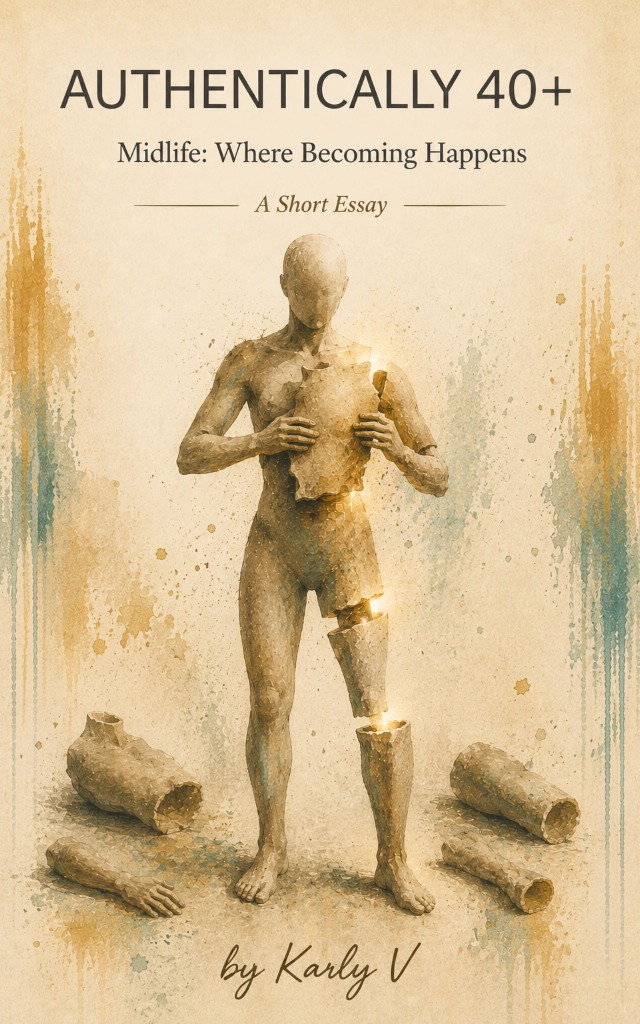
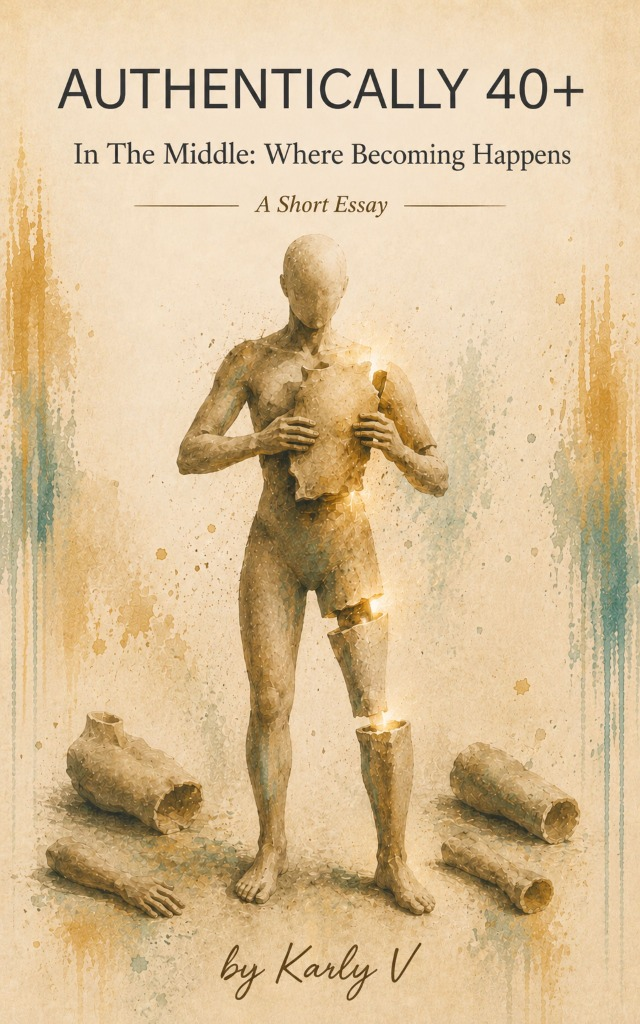
Update essay 6 cover art and heading to 'In The Middle: Where Becoming Happens'

diff --git a/src/components/Essays.js b/src/components/Essays.js
@@ -106,7 +106,7 @@ Not a celebration of recklessness. An exploration of what happens when desire 
     {
       id: 6,
       title: "Authentically 40+ ESSAY 6",
-      description: "Midlife: Where Becoming Happens",
+      description: "In The Middle: Where Becoming Happens",
       image: "/SA6 cover art.jpg",
       summary: `Many of us imagine that becoming is a destination.
 
